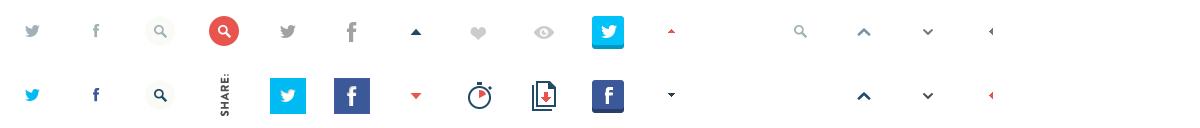
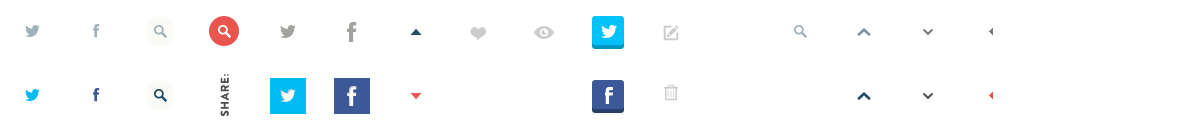
admin pages are completed

Changed region(s): [[0.37, 0.625, 0.4625, 0.875], [0.555, 0.6562, 0.5858, 0.7812], [0.555, 0.1875, 0.5858, 0.3125]]

diff --git a/change-password.html b/change-password.html
@@ -129,19 +129,132 @@
                 </dl>
                 <ul class="tabs-content">
 					<!-- My Invitations content starts here -->
-                    <li id="simple1Tab">This is simple tab 1s content. Pretty neat, huh?</li>
+                    <li id="simple1Tab">
+                    		<dl class="tabs pill">
+                                  <dd class="active"><a href="#pillTab1">Active Invitations</a></dd>
+                                  <dd><a href="#pillTab2">Past Invitations</a></dd>
+                                  <dd><a href="#pillTab3">Received Invitations</a></dd>
+                                </dl>
+                        	
+                        	
+                        	 <div class="three columns">
+                                        <article class="invitation shadow"> 
+                                            <div class="invitation_details">
+                                                <figure> <img src="images/invitation-thumbs/ganesh-chaturdhi-invitation.jpg" alt="">
+                                                    <figcaption class="color-bar"></figcaption>
+                                                </figure>
+                                                <h3 class="brown">Vinayaka Chavithi</h3>
+                                                <dl>
+                                                    
+                                                    <dd class="views">Created on 13th Nov, 2012</dd>
+                                                    
+                                                </dl>
+                                                <dl class="editing_panel">
+                                                    <dt class="edit">Views</dt>
+                                                    <a href="#"><dd class="views">EDIT</dd></a>
+                                                     <dt class="delete">Views</dt>
+                                                     <a href="#"><dd class="views">DELETE</dd></a>
+                                                    
+                                                </dl>
+                                            </div>
+                                           </article>
+                                    </div>
+            
+                                 <div class="three columns">
+                                        <article class="invitation shadow"> 
+                                            <div class="invitation_details">
+                                                <figure> <img src="images/invitation-thumbs/diwali-invitation.jpg" alt="">
+                                                    <figcaption class="color-bar"></figcaption>
+                                                </figure>
+                                                <h3 class="brown">Happy Diwali</h3>
+                                                <dl>
+                                                    
+                                                    <dd class="views">Created on 4th Dec, 2012</dd>
+                                                    
+                                                </dl>
+                                                <dl class="editing_panel">
+                                                    <dt class="edit">Views</dt>
+                                                    <a href="#"><dd class="views">EDIT</dd></a>
+                                                     <dt class="delete">Views</dt>
+                                                     <a href="#"><dd class="views">DELETE</dd></a>
+                                                    
+                                                </dl>
+                                            </div>
+                                           </article>
+                                    </div>
+                                    
+                                     <div class="three columns">
+                                        <article class="invitation shadow"> 
+                                            <div class="invitation_details">
+                                                <figure> <img src="images/invitation-thumbs/ganesh-chaturdhi-invitation.jpg" alt="">
+                                                    <figcaption class="color-bar"></figcaption>
+                                                </figure>
+                                                <h3 class="brown">Vinayaka Chavithi</h3>
+                                                <dl>
+                                                    
+                                                    <dd class="views">Created on 13th Nov, 2012</dd>
+                                                    
+                                                </dl>
+                                                <dl class="editing_panel">
+                                                    <dt class="edit">Views</dt>
+                                                    <a href="#"><dd class="views">EDIT</dd></a>
+                                                     <dt class="delete">Views</dt>
+                                                     <a href="#"><dd class="views">DELETE</dd></a>
+                                                    
+                                                </dl>
+                                            </div>
+                                           </article>
+                                    </div>
+                                    
+                                     <div class="three columns">
+                                        <article class="invitation shadow"> 
+                                            <div class="invitation_details">
+                                                <figure> <img src="images/invitation-thumbs/ganesh-chaturdhi-invitation.jpg" alt="">
+                                                    <figcaption class="color-bar"></figcaption>
+                                                </figure>
+                                                <h3 class="brown">Vinayaka Chavithi</h3>
+                                                <dl>
+                                                    
+                                                    <dd class="views">Created on 13th Nov, 2012</dd>
+                                                    
+                                                </dl>
+                                                <dl class="editing_panel">
+                                                    <dt class="edit">Views</dt>
+                                                    <a href="#"><dd class="views">EDIT</dd></a>
+                                                     <dt class="delete">Views</dt>
+                                                     <a href="#"><dd class="views">DELETE</dd></a>
+                                                    
+                                                </dl>
+                                            </div>
+                                           </article>
+                                    </div>
+                               
+                      
+                    </li>
 					<!-- My Invitations content ends here -->
 					
 					<!-- My Drafts content starts here -->
-                    <li id="simple2Tab">This is simple tab 2s content. Now you see it!</li>
+                    <li id="simple2Tab"> <div class="three columns">
+                                        <article class="invitation shadow"> 
+                                            <div class="invitation_details">
+                                                <figure> <img src="images/invitation-thumbs/ganesh-chaturdhi-invitation.jpg" alt="">
+                                                    <figcaption class="color-bar"></figcaption>
+                                                </figure>
+                                                <h3 class="brown">Vinayaka Chavithi</h3>
+                                                <dl>
+                                                    
+                                                    <dd class="views">Created on 13th Nov, 2012</dd>
+                                                    
+                                                </dl>
+                                                
+                                            </div>
+                                           </article>
+                                    </div></li>
 					<!-- My Drafts content ends here -->
 					
                     <!-- My contacts content starts here -->
                     <li id="simple3Tab">
-                        <dl class="tabs">
-                            <dd class="active"><a href="#mycontacts">My Contacts</a></dd>
-                            <dd><a href="#importcontacts">Import Contacts</a></dd>
-                        </dl>
+                       
                         <ul class="tabs-content">
                             <li class="active" id="mycontactsTab">
                                 <div class="row">
@@ -198,12 +311,28 @@
                     <!-- My contacts content ends here -->
                     
 					<!-- My Favorites content starts here -->
-                    <li id="simple4Tab">This is simple tab 3s content.</li>
+                    <li id="simple4Tab"> <div class="three columns">
+                                        <article class="invitation shadow"> 
+                                            <div class="invitation_details">
+                                                <figure> <img src="images/invitation-thumbs/ganesh-chaturdhi-invitation.jpg" alt="">
+                                                    <figcaption class="color-bar"></figcaption>
+                                                </figure>
+                                                <h3 class="brown">Vinayaka Chavithi</h3>
+                                                <dl>
+                            <dt class="views">Views</dt>
+                            <dd class="views">25</dd>
+                            <dt class="favorites">Favorites</dt>
+                            <dd class="favorites">356</dd>
+                        </dl>
+                                                
+                                            </div>
+                                           </article>
+                                    </div></li>
 					<!-- My Favorites content ends here -->
 					
 					<!-- Edit Profile content starts here -->
                     <li id="simple5Tab">
-                        <h3 class="brown">Edit Profile</h3>
+                        
                         <form class="custom">
                             <div class="row">
                                 <div class="five columns">
@@ -266,7 +395,7 @@
 					
 					<!-- Change Password content starts here -->
                     <li   class="active" id="simple6Tab">
-                        <h3 class="brown">Change Password</h3>
+                        
                         <form class="custom">
                             <div class="row">
                                 <div class="five columns">

diff --git a/stylesheets/app.css b/stylesheets/app.css
@@ -901,6 +901,26 @@ a {
 	background-position: -527px -22px;
 	width: 30px;
 }
+.invitation .invitation_details dt.edit {
+	background-position: -655px -22px;
+	width: 30px;
+}
+.invitation .invitation_details dt.delete {
+	background-position: -655px -82px;
+	width: 30px;
+}
+
+
+
+.user_admin_container .invitation_details ul, ol, dl {
+font-size: 14px;
+line-height: 1.6;
+margin-bottom: 5px;
+list-style-position: outside;
+}
+
+.editing_panel a{font-size:12px; font-weight:bold;}
+
 .invitation .invitation_details dt, .invitation .invitation_details dd {
 	font-size: 11px;
 	display: -moz-inline-stack;
